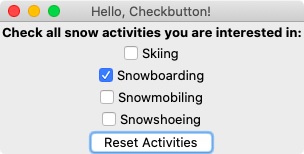
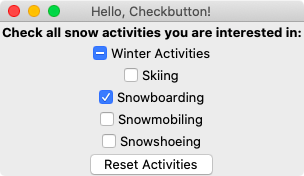
Improved Hello, Checkbutton! sample to demonstrate alternate checkbutton value (half-checked state)

Changed region(s): [[0.0, 0.026, 1.0, 1.0], [0.0296, 0.026, 0.2072, 0.0519], [0.6809, 0.026, 0.7105, 0.0519]]

diff --git a/samples/hello/hello_checkbutton.rb b/samples/hello/hello_checkbutton.rb
@@ -23,13 +23,47 @@ require 'glimmer-dsl-tk'
 
 class HelloCheckbutton
   class Person
-    attr_accessor :skiing, :snowboarding, :snowmobiling, :snowshoeing
+    attr_accessor :skiing, :snowboarding, :snowmobiling, :snowshoeing, :winter_activities, :winter_activities_alternate
     
     def initialize
       reset_activities!
+      individual_observer = Glimmer::DataBinding::Observer.proc do
+        unless @updating_group
+          @updating_individual = true
+          if skiing && snowboarding && snowmobiling && snowshoeing
+            self.winter_activities = true
+            self.winter_activities_alternate = false
+          elsif skiing || snowboarding || snowmobiling || snowshoeing
+            self.winter_activities = true
+            self.winter_activities_alternate = true
+          else
+            self.winter_activities = false
+            self.winter_activities_alternate = false
+          end
+          @updating_individual = false
+        end
+      end
+      individual_observer.observe(self, :skiing)
+      individual_observer.observe(self, :snowboarding)
+      individual_observer.observe(self, :snowmobiling)
+      individual_observer.observe(self, :snowshoeing)
+      
+      group_observer = Glimmer::DataBinding::Observer.proc do
+        unless @updating_individual
+          @updating_group = true
+          self.skiing = self.winter_activities
+          self.snowboarding = self.winter_activities
+          self.snowmobiling = self.winter_activities
+          self.snowshoeing = self.winter_activities
+          @updating_group = false
+        end
+      end
+      group_observer.observe(self, :winter_activities)
     end
     
     def reset_activities!
+      self.winter_activities = true
+      self.winter_activities_alternate = true
       self.skiing = false
       self.snowboarding = true
       self.snowmobiling = false
@@ -55,23 +89,31 @@ class HelloCheckbutton
       
       frame {
         checkbutton {
-          text 'Skiing'
-          variable <=> [@person, :skiing]
+          text 'Winter Activities'
+          variable <=> [@person, :winter_activities]
+          alternate <=> [@person, :winter_activities_alternate] # binds half-checked state
         }
         
-        checkbutton {
-          text 'Snowboarding'
-          variable <=> [@person, :snowboarding]
-        }
-        
-        checkbutton {
-          text 'Snowmobiling'
-          variable <=> [@person, :snowmobiling]
-        }
-        
-        checkbutton {
-          text 'Snowshoeing'
-          variable <=> [@person, :snowshoeing]
+        frame {
+          checkbutton {
+            text 'Skiing'
+            variable <=> [@person, :skiing]
+          }
+          
+          checkbutton {
+            text 'Snowboarding'
+            variable <=> [@person, :snowboarding]
+          }
+          
+          checkbutton {
+            text 'Snowmobiling'
+            variable <=> [@person, :snowmobiling]
+          }
+          
+          checkbutton {
+            text 'Snowshoeing'
+            variable <=> [@person, :snowshoeing]
+          }
         }
       }
       

diff --git a/README.md b/README.md
@@ -1,4 +1,4 @@
-# [<img src="https://raw.githubusercontent.com/AndyObtiva/glimmer/master/images/glimmer-logo-hi-res.png" height=85 />](https://github.com/AndyObtiva/glimmer) Glimmer DSL for Tk 0.0.21
+# [<img src="https://raw.githubusercontent.com/AndyObtiva/glimmer/master/images/glimmer-logo-hi-res.png" height=85 />](https://github.com/AndyObtiva/glimmer) Glimmer DSL for Tk 0.0.22
 ## MRI Ruby Desktop Development GUI Library
 [![Gem Version](https://badge.fury.io/rb/glimmer-dsl-tk.svg)](http://badge.fury.io/rb/glimmer-dsl-tk)
 [![Ruby](https://github.com/AndyObtiva/glimmer-dsl-tk/actions/workflows/ruby.yml/badge.svg)](https://github.com/AndyObtiva/glimmer-dsl-tk/actions/workflows/ruby.yml)
@@ -88,7 +88,7 @@ Other [Glimmer](https://github.com/AndyObtiva/glimmer) DSL gems:
     - [List Single Selection Data-Binding](#list-single-selection-data-binding)
     - [List Multi Selection Data-Binding](#list-multi-selection-data-binding)
     - [Entry Data-Binding](#entry-data-binding)
-    - [Checkbox Data-Binding](#checkbox-data-binding)
+    - [Checkbutton Data-Binding](#checkbutton-data-binding)
   - [Command Callback](#command-callback)
   - [Gotchas](#gotchas)
   - [Samples](#samples)
@@ -140,7 +140,7 @@ gem install glimmer-dsl-tk
 
 Add the following to `Gemfile`:
 ```
-gem 'glimmer-dsl-tk', '~> 0.0.21'
+gem 'glimmer-dsl-tk', '~> 0.0.22'
 ```
 
 And, then run:
@@ -473,7 +473,7 @@ It automatically handles all the Tk plumbing behind the scenes.
 
 More details can be found in the [Hello, Computed!](#hello-computed) sample below.
 
-### Checkbox Data-Binding
+### Checkbutton Data-Binding
 
 Example:
 
@@ -488,6 +488,8 @@ This assumes a `Person` model with a boolean `adult` attribute.
 That code binds the `variable` value of the `checkbutton` to the boolean `adult` attribute on the `person` model.
 
 It automatically handles all the Tk plumbing behind the scenes.
+
+If you need to display a half-checked `checkbutton`, bind to `alternate` attribute.
 
 More details can be found in the [Hello, Checkbutton!](#hello-checkbutton) sample below.
 
@@ -738,6 +740,10 @@ ruby -r ./lib/glimmer-dsl-tk.rb ./samples/hello/hello_checkbutton.rb
 Glimmer app:
 
 ![glimmer dsl tk screenshot sample hello checkbutton](images/glimmer-dsl-tk-screenshot-sample-hello-checkbutton.png)
+
+![glimmer dsl tk screenshot sample hello checkbutton](images/glimmer-dsl-tk-screenshot-sample-hello-checkbutton-all-checked.png)
+
+![glimmer dsl tk screenshot sample hello checkbutton](images/glimmer-dsl-tk-screenshot-sample-hello-checkbutton-none-checked.png)
 
 ### Hello, Frame!
 

diff --git a/TODO.md b/TODO.md
@@ -3,6 +3,7 @@
 ## General
 
 - Support rgb colors via a hash of `:r`, `:g`, `:b`, hash of `:red`, `:green`, `:blue`, or `rgb(r, g, b)`
+- Alias `title` attributes as `text` (and `text` as `title`, like for `notebook` `frame`)
 
 - Support styles
 - Support themes
@@ -23,16 +24,15 @@
 
 ### Hello
 
-- Hello, Checkbutton!
 - Hello, Radiobutton!
 - Hello, Entry!
-- Hello, Grid!
 - Hello, Text!
 - Hello, Scale!
 - Hello, Spinbox!
 - Hello, Progressbar!
 - Hello, Menu Bar!
 - Hello, Contextual Menu!
+- Hello, Grid!
 - Hello, Dialog! (open_file, save_file, choose_directory, choose_color, font_chooser [choose_font alias])
 - Hello, Toplevel! (Custom Window and Custom Dialog)
 - Hello, Listbox! (two tabs for single/multi selection)

diff --git a/CHANGELOG.md b/CHANGELOG.md
@@ -1,5 +1,9 @@
 # Change Log
 
+## 0.0.23
+
+- Improved Hello, Checkbutton! sample to demonstrate alternate checkbutton value (half-checked state)
+
 ## 0.0.22
 
 - Hello, Checkbutton!
